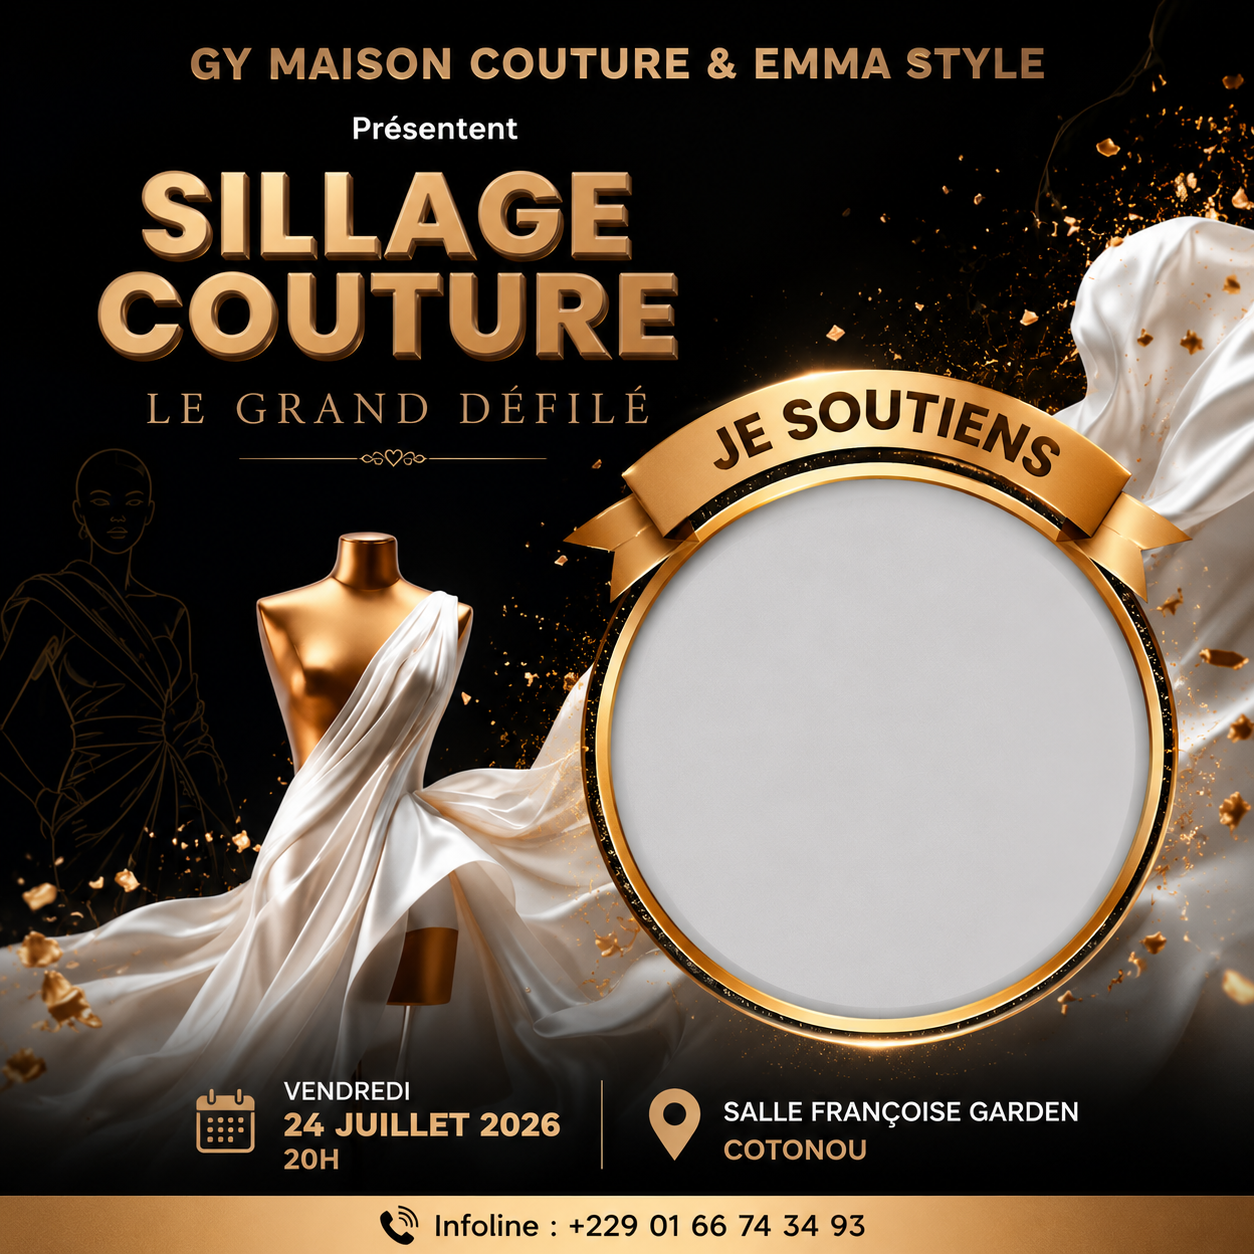
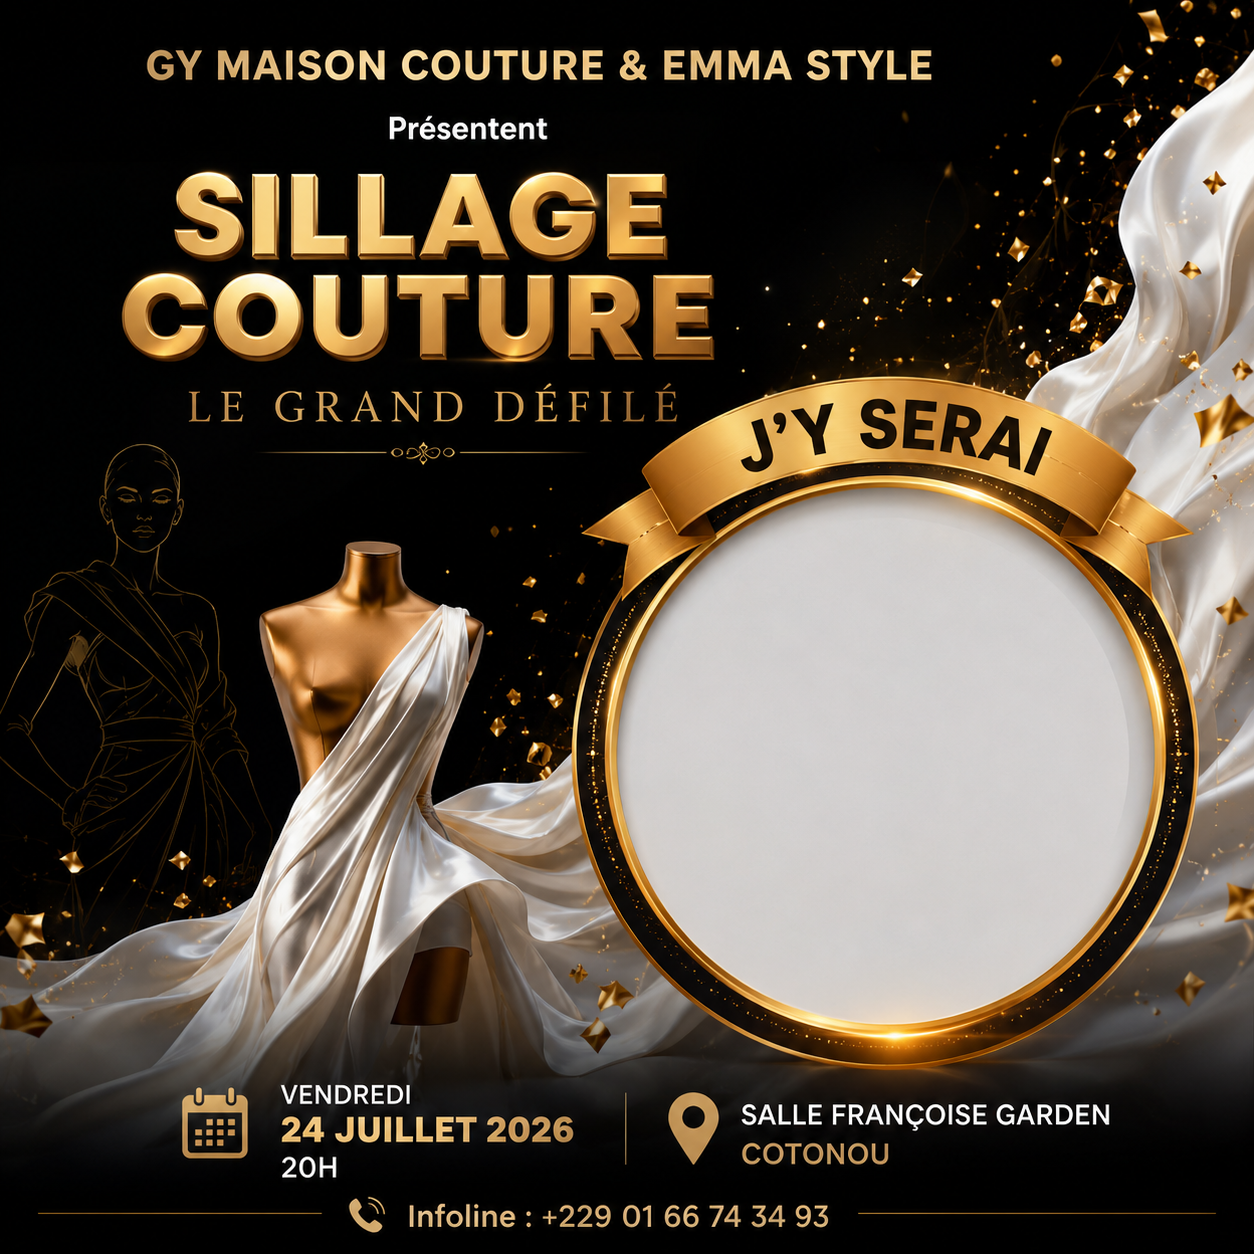
Update Sillage Couture campaign mask and fix image cache

diff --git a/src/components/PhotoGenerator/PhotoGenerator.tsx b/src/components/PhotoGenerator/PhotoGenerator.tsx
@@ -44,7 +44,9 @@ export default function PhotoGenerator({ frameUrl, campaignId, onDownload }: Pho
             console.error("Failed to load frame image");
             setIsLoading(false);
         };
-        img.src = frameUrl;
+        // Add a timestamp to bypass browser cache for updated images
+        const cacheBusterUrl = frameUrl + (frameUrl.includes('?') ? '&' : '?') + 't=' + new Date().getTime();
+        img.src = cacheBusterUrl;
     }, [frameUrl]);
 
     // Draw Canvas
@@ -79,15 +81,15 @@ export default function PhotoGenerator({ frameUrl, campaignId, onDownload }: Pho
                 ctx.clip();
             } else if (isSillageCampaign) {
                 ctx.beginPath();
-                // Circular mask for Sillage, moved down and shrunk to avoid the top ribbon
-                // Center X: 740, Center Y: 635 (moved down from 615), Radius: 255 (shrunk from 270)
-                ctx.arc(740, 635, 255, 0, Math.PI * 2);
+                // Circular mask for Sillage, updated for new image
+                // Center X: 762, Center Y: 650, Radius: 240
+                ctx.arc(762, 650, 240, 0, Math.PI * 2);
                 ctx.clip();
             }
 
             // Move to center of canvas (or center of mask for Sillage)
-            const centerX = isSillageCampaign ? 740 : CANVAS_SIZE / 2;
-            const centerY = isSillageCampaign ? 635 : CANVAS_SIZE / 2;
+            const centerX = isSillageCampaign ? 762 : CANVAS_SIZE / 2;
+            const centerY = isSillageCampaign ? 650 : CANVAS_SIZE / 2;
             ctx.translate(centerX + offset.x, centerY + offset.y);
             // Rotate
             ctx.rotate((rotation * Math.PI) / 180);

diff --git a/src/app/support/[slug]/page.tsx b/src/app/support/[slug]/page.tsx
@@ -137,7 +137,7 @@ export default function SupportCampaignPage() {
                 {!showGenerator ? (
                     <div className={`${styles.card} animate-in`}>
                         <div className={styles.framePreview}>
-                            <img src={campaign.frame_image} alt="Cadre de soutien" />
+                            <img src={`${campaign.frame_image}${campaign.frame_image.includes('?') ? '&' : '?'}t=${new Date().getTime()}`} alt="Cadre de soutien" />
                         </div>
                         <h2 style={{ color: '#0A2E73', marginBottom: '1.5rem' }}>Prêt à montrer votre soutien ?</h2>
                         <button className={styles.btnParticipate} onClick={handleParticipate}>